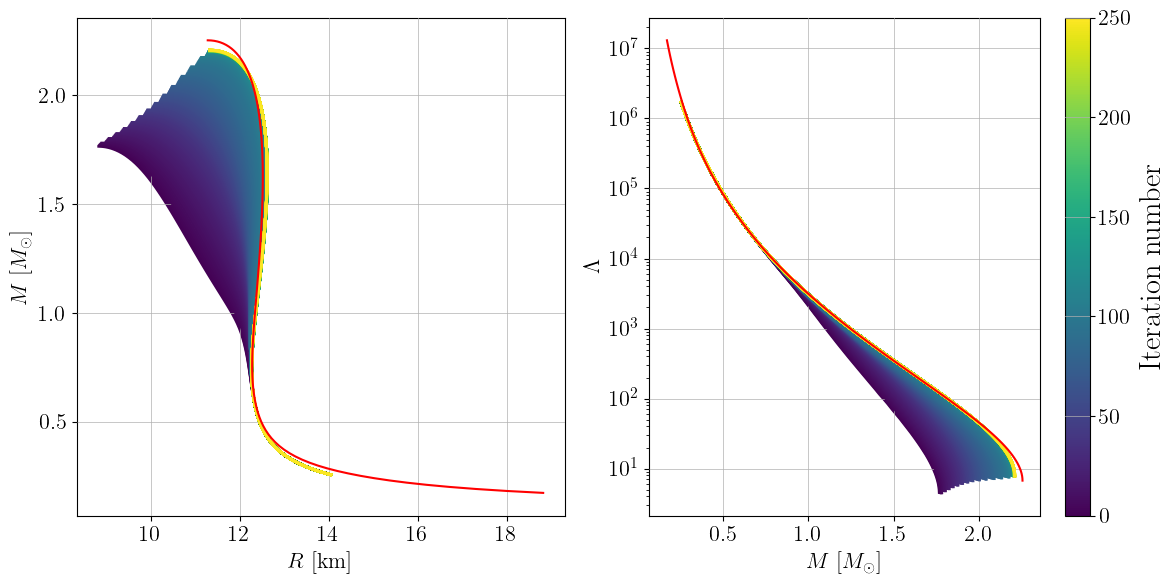
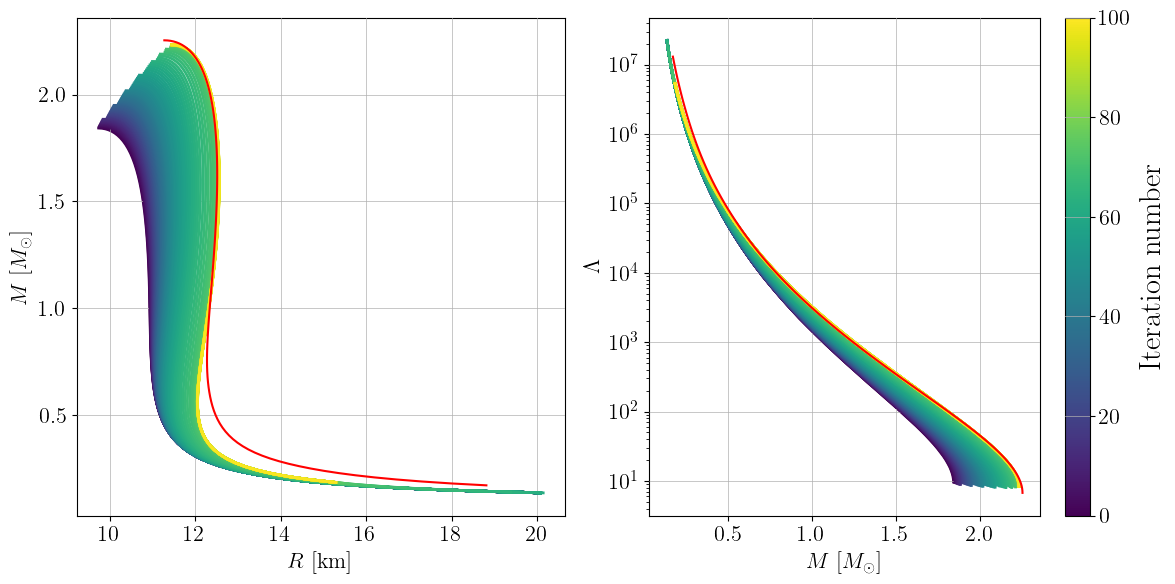
Nice doppelganger example -- setting up multiple EOS optimization

diff --git a/src/paper_jose/autodiff_showcase/doppelgangers.py b/src/paper_jose/autodiff_showcase/doppelgangers.py
@@ -131,12 +131,12 @@ def doppelganger_score(params: dict,
                        m_target: Array,
                        Lambdas_target: Array, 
                        r_target: Array,
-                       m_min = 1.2, 
+                       m_min = 0.5, 
                        m_max = 2.1,
                        N_masses: int = 100,
                        alpha: float = 1.0,
                        beta: float = 0.0,
-                       gamma: float = 0.0) -> float:
+                       gamma: float = 2.0) -> float:
     
     # Solve the TOV equations
     out = transform.forward(params)
@@ -172,6 +172,7 @@ def plot_NS(N: int,
             Lambdas_target: Array = None,
             r_target: Array = None,
             plot_mse: bool = False,
+            m_min = 1.2, 
             plot_final_errors: bool = False):
     
     # Read the EOS data
@@ -267,11 +268,11 @@ def plot_NS(N: int,
         r_final = all_radii_EOS[-1]
         Lambda_final = all_Lambdas_EOS[-1]
         
-        m_min = max(min(m_final), min(m_target))
-        m_min = max(m_min, 1.2)
-        m_max = min(max(m_final), max(m_target))
+        my_m_min = max(min(m_final), min(m_target))
+        my_m_min = max(my_m_min, m_min)
+        my_m_max = min(max(m_final), max(m_target))
         
-        masses = jnp.linspace(m_min, m_max, 100)
+        masses = jnp.linspace(my_m_min, my_m_max, 100)
         my_Lambdas_model = jnp.interp(masses, m_final, Lambda_final, left = 0, right = 0)
         my_Lambdas_target = jnp.interp(masses, m_target, Lambdas_target, left = 0, right = 0)
         
@@ -290,9 +291,16 @@ def plot_NS(N: int,
         plt.savefig(save_name, bbox_inches = "tight")
         
         plt.close()
-        
+       
+       
+######################
+### BODY FUNCTIONS ### 
+######################
 
-def main():
+def single_eos():
+    """
+    Optimize a single EOS, mainly for testing the framework
+    """
     
     ### PRIOR
     my_nbreak = 2.0 * 0.16
@@ -352,8 +360,8 @@ def main():
     
     doppelganger_score_ = lambda params: doppelganger_score(params, transform, m_target, Lambdas_target, r_target)
         
-    N = 250
-    compute_gradient_descent(N, prior, doppelganger_score_, learning_rate = 0.001, start_halfway = False, random_seed = 55)
+    N = 100
+    compute_gradient_descent(N, prior, doppelganger_score_, learning_rate = 0.001, start_halfway = False, random_seed = 64)
     
     # Plot the doppelganger trajectory
     plot_NS(N, 
@@ -361,6 +369,89 @@ def main():
             Lambdas_target = Lambdas_target, 
             r_target = r_target, 
             plot_final_errors = True)
+
+
+def population_eos():
+    """
+    Same as above, but now for a population
+    """
+    
+    ### PRIOR
+    my_nbreak = 2.0 * 0.16
+    NMAX_NSAT = 25
+    NMAX = NMAX_NSAT * 0.16
+    NB_CSE = 8
+    width = (NMAX - my_nbreak) / (NB_CSE + 1)
+
+    # NEP priors
+    K_sat_prior = UniformPrior(150.0, 300.0, parameter_names=["K_sat"])
+    Q_sat_prior = UniformPrior(-500.0, 1100.0, parameter_names=["Q_sat"])
+    Z_sat_prior = UniformPrior(-2500.0, 1500.0, parameter_names=["Z_sat"])
+
+    E_sym_prior = UniformPrior(28.0, 45.0, parameter_names=["E_sym"])
+    L_sym_prior = UniformPrior(10.0, 200.0, parameter_names=["L_sym"])
+    K_sym_prior = UniformPrior(-300.0, 100.0, parameter_names=["K_sym"])
+    Q_sym_prior = UniformPrior(-800.0, 800.0, parameter_names=["Q_sym"])
+    Z_sym_prior = UniformPrior(-2500.0, 1500.0, parameter_names=["Z_sym"])
+
+    prior_list = [
+        E_sym_prior,
+        L_sym_prior, 
+        K_sym_prior,
+        Q_sym_prior,
+        Z_sym_prior,
+
+        K_sat_prior,
+        Q_sat_prior,
+        Z_sat_prior,
+    ]
+
+    # CSE priors
+    prior_list.append(UniformPrior(1.0 * 0.16, 2.0 * 0.16, parameter_names=[f"nbreak"]))
+    for i in range(NB_CSE):
+        left = my_nbreak + i * width
+        right = my_nbreak + (i+1) * width
+        prior_list.append(UniformPrior(left, right, parameter_names=[f"n_CSE_{i}"]))
+        prior_list.append(UniformPrior(0.0, 1.0, parameter_names=[f"cs2_CSE_{i}"]))
+
+    # Final point to end
+    prior_list.append(UniformPrior(0.0, 1.0, parameter_names=[f"cs2_CSE_{NB_CSE}"]))
+    prior = CombinePrior(prior_list)
+    sampled_param_names = prior.parameter_names
+    name_mapping = (sampled_param_names, ["masses_EOS", "radii_EOS", "Lambdas_EOS", "n", "p", "h", "e", "dloge_dlogp", "cs2"])
+        
+    ### Load the target
+    target_filename = "./36022_macroscopic.dat"
+    target_eos = np.genfromtxt(target_filename, skip_header=1, delimiter=" ").T
+    r_target, m_target, Lambdas_target = target_eos[0], target_eos[1], target_eos[2]
+        
+    # Use it to get a doppelganger score
+    
+    transform = utils.MicroToMacroTransform(utils.name_mapping, 
+                                            nmax_nsat = utils.NMAX_NSAT,
+                                            nb_CSE = utils.NB_CSE,
+                                            )
+    
+    doppelganger_score_ = lambda params: doppelganger_score(params, transform, m_target, Lambdas_target, r_target)
+        
+    N = 100
+    compute_gradient_descent(N, prior, doppelganger_score_, learning_rate = 0.001, start_halfway = False, random_seed = 64)
+    
+    # Plot the doppelganger trajectory
+    plot_NS(N, 
+            m_target = m_target, 
+            Lambdas_target = Lambdas_target, 
+            r_target = r_target, 
+            plot_final_errors = True)
+
+############
+### MAIN ###
+############
+
+def main():
+    single_eos()
+    
+    population_eos()
     
 if __name__ == "__main__":
     main()
